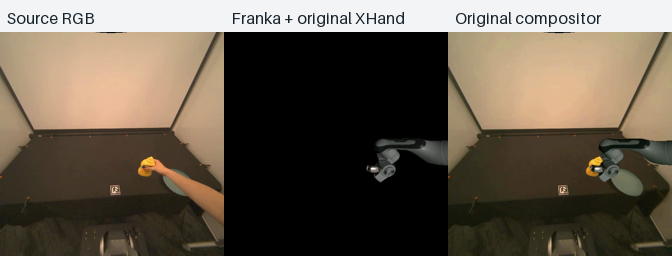
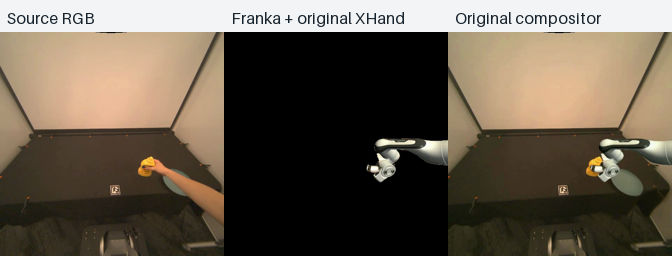
Preserve original scene lighting when replacing the visual robot

Changed region(s): [[0.875, 0.5312, 1.0, 0.7188], [0.5312, 0.5312, 0.6875, 0.7188]]

diff --git a/egoengine/robot_visual.py b/egoengine/robot_visual.py
@@ -65,7 +65,7 @@ def base_pose(config, retarget):
     return desk @ relative
 
 
-def register_robot(config, placement):
+def register_robot(config, placement, scene_lights=None):
     from robosuite.robots import register_robot_class
 
     parent = getattr(importlib.import_module(config["robot_module"]), config["robot_class"])
@@ -74,6 +74,12 @@ def register_robot(config, placement):
         def __init__(self, idn=0):
             super().__init__(idn=idn)
             self.set_base_ori(Rotation.from_matrix(placement[:3, :3]).as_euler("xyz"))
+            if scene_lights is not None:
+                # World lights belong to the scene, independent of the replacement arm.
+                for light in self.worldbody.findall("light"):
+                    self.worldbody.remove(light)
+                for light in scene_lights:
+                    self.worldbody.append(deepcopy(light))
 
         @property
         def default_base(self):
@@ -95,11 +101,31 @@ def register_robot(config, placement):
     return VisualRobot
 
 
-def source_wrist_poses(case, original, config):
+def lighting_state(model):
+    """Record compiled scene lights independently of robot geometry and placement."""
+    return {
+        "headlight": {
+            key: np.asarray(getattr(model.vis.headlight, key)).tolist()
+            for key in ("active", "ambient", "diffuse", "specular")
+        },
+        "world_lights": [
+            {
+                key: np.asarray(getattr(model, "light_" + key)[index]).tolist()
+                for key in ("pos", "dir", "ambient", "diffuse", "specular", "castshadow")
+            }
+            for index in range(model.nlight)
+            if model.light_bodyid[index] == 0
+        ],
+    }
+
+
+def source_visual_reference(case, original, config):
     args = SimpleNamespace(data_file=str(case.visual / "retarget.json"), cam_name="cameraview")
     env = original.make_tracking_env(args, use_cam_obs=False)()
     poses = []
     try:
+        scene_lights = deepcopy(env.env.robots[0].robot_model.worldbody.findall("light"))
+        lighting = lighting_state(env.env.sim.model._model)
         for frame in case.retarget_frames():
             env._set_full_config(frame["robot_cfg"])
             pose = np.eye(4)
@@ -108,7 +134,7 @@ def source_wrist_poses(case, original, config):
             poses.append(pose)
     finally:
         env.close()
-    return np.asarray(poses)
+    return np.asarray(poses), scene_lights, lighting
 
 
 def map_arm(config, robot_class, placement, targets, frames, hand_joints):
@@ -293,8 +319,8 @@ def worker(case, config_path, output, width, height):
     source_path = case.visual / "retarget.json"
     retarget = json.loads(source_path.read_text())
     placement = base_pose(config, retarget)
-    targets = source_wrist_poses(case, original, config)
-    robot_class = register_robot(config, placement)
+    targets, scene_lights, source_lighting = source_visual_reference(case, original, config)
+    robot_class = register_robot(config, placement, scene_lights)
     commands, actual = map_arm(
         config, robot_class, placement, targets, case.retarget_frames(), original.RIGHT_XHAND_JOINTS
     )
@@ -338,6 +364,9 @@ def worker(case, config_path, output, width, height):
     args = SimpleNamespace(data_file=str(data_file), cam_name="cameraview")
     env = make_environment(original, args, config, width, height)
     try:
+        lighting = lighting_state(env.env.sim.model._model)
+        if lighting != source_lighting:
+            raise ValueError("Replacement robot changed the original scene lighting")
         pixels, replayed = replay_layers(
             env,
             original,
@@ -370,6 +399,9 @@ def worker(case, config_path, output, width, height):
         action_sha256=None,
         commands_file="robot_commands.npz",
         xhand_commands="unchanged from original retarget",
+        lighting_source="original_retarget_environment",
+        scene_lights=[dict(light.attrib) for light in scene_lights],
+        lighting=lighting,
         base_to_world=placement.tolist(),
         render_collision_mesh=collision_visible,
         frames_with_visible_robot=sum(value > 0 for value in pixels),

diff --git a/scripts/validate_robot_visual.py b/scripts/validate_robot_visual.py
@@ -1,10 +1,12 @@
 """Check actual visual-robot outputs against the unchanged prepared demonstration."""
 
 import argparse
+from datetime import datetime, timezone
 import hashlib
 import json
 from pathlib import Path
 import sys
+from types import SimpleNamespace
 import xml.etree.ElementTree as ET
 
 import h5py
@@ -12,7 +14,7 @@ import mujoco
 import numpy as np
 
 from egoengine.data import PROJECT_ROOT, get_case
-from egoengine.robot_visual import base_pose, load_config, register_robot
+from egoengine.robot_visual import base_pose, lighting_state, load_config, register_robot
 from egoengine.video import video_info
 
 
@@ -43,6 +45,20 @@ def check_materials(config, placement):
     return checked
 
 
+def reference_lighting(case):
+    sys.path.insert(0, str(PROJECT_ROOT / "visual"))
+    from rl_tracking_dev.replay_trajectory_seg_aria import make_tracking_env
+
+    args = SimpleNamespace(data_file=str(case.visual / "retarget.json"), cam_name="cameraview")
+    env = make_tracking_env(args, use_cam_obs=False)()
+    try:
+        return lighting_state(env.env.sim.model._model), [
+            dict(light.attrib) for light in env.env.robots[0].robot_model.worldbody.findall("light")
+        ]
+    finally:
+        env.close()
+
+
 def main():
     parser = argparse.ArgumentParser(description=__doc__)
     parser.add_argument("--root", type=Path, default=PROJECT_ROOT / "outputs/franka_xhand")
@@ -55,6 +71,7 @@ def main():
     )
     args = parser.parse_args()
     config = load_config(args.robot_config)
+    original_lighting, original_lights = reference_lighting(get_case(args.cases[0]))
     rows = []
     for name in args.cases:
         case = get_case(name)
@@ -64,6 +81,9 @@ def main():
         assert visual_metadata["renderer"] == "configured_robot"
         assert visual_metadata["robot_name"] == config["name"]
         assert visual_metadata["robot_config_sha256"] == metadata["robot_config_sha256"]
+        assert metadata["lighting_source"] == "original_retarget_environment"
+        assert metadata["lighting"] == original_lighting
+        assert metadata["scene_lights"] == original_lights
         source_path = case.visual / "retarget.json"
         retarget = json.loads(source_path.read_text())
         adapted = json.loads(
@@ -116,6 +136,7 @@ def main():
                 camera_and_object_tracks_unchanged=True,
                 eef_actions_unchanged=True,
                 rendered_fk_matches_mapping=True,
+                lighting_matches_original_scene=True,
                 collision_geometry_visible=False,
                 visible_robot_frames=metadata["frames_with_visible_robot"],
                 max_wrist_position_error_m=metadata["max_wrist_position_error_m"],
@@ -127,8 +148,25 @@ def main():
         scope="Visual arm replacement and paired reference-EEF export; no new RL or hardware claim",
         robot=config["name"],
         materials_verified=materials,
+        restored_scene_lights=original_lights,
+        compiled_lighting=original_lighting,
         cases=rows,
         robot_config_sha256=hashlib.sha256(args.robot_config.read_bytes()).hexdigest(),
+        source_sha256={
+            name: hashlib.sha256((PROJECT_ROOT / name).read_bytes()).hexdigest()
+            for name in (
+                "egoengine/robot_visual.py",
+                "egoengine/visual.py",
+                "egoengine/export.py",
+                "egoengine/cli.py",
+                "examples/robots/franka_xhand.json",
+                "scripts/reproduce_franka_visual.sh",
+                "scripts/validate_robot_visual.py",
+                "scripts/build_robot_visual_media.py",
+                "tests/test_robot_config.py",
+            )
+        },
+        validated_at_utc=datetime.now(timezone.utc).isoformat(),
     )
     args.output.parent.mkdir(parents=True, exist_ok=True)
     args.output.write_text(json.dumps(result, indent=2) + "\n")

diff --git a/tests/test_robot_config.py b/tests/test_robot_config.py
@@ -1,4 +1,5 @@
 import json
+import importlib.util
 from pathlib import Path
 import tempfile
 import unittest
@@ -6,10 +7,38 @@ import unittest
 import numpy as np
 
 from egoengine.data import PROJECT_ROOT
-from egoengine.robot_visual import base_pose, load_config
+from egoengine.robot_visual import base_pose, lighting_state, load_config, register_robot
 
 
 class RobotConfigTest(unittest.TestCase):
+    @unittest.skipUnless(
+        importlib.util.find_spec("gymnasium") and importlib.util.find_spec("numba"),
+        "Install requirements/visual-tested.txt for original visual integration",
+    )
+    def test_arm_replacement_preserves_world_lights_with_a_rotated_base(self):
+        import sys
+
+        import mujoco
+
+        sys.path.insert(0, str(PROJECT_ROOT / "visual"))
+        from robosuite.models.robots.manipulators.rby1_robot import RBY1ArmsOnlyAria
+
+        source = RBY1ArmsOnlyAria(idn=0)
+        lights = source.worldbody.findall("light")
+        self.assertTrue(lights)
+        source_model = mujoco.MjModel.from_xml_string(source.get_xml())
+        config = load_config(PROJECT_ROOT / "examples/robots/franka_xhand.json")
+        config["base_quat_wxyz"] = [0.5, 0.5, 0.5, 0.5]
+        placement = base_pose(config, {"init_state": {"desk": np.eye(4).tolist()}})
+        robot_class = register_robot(config, placement, lights)
+        for _ in range(2):
+            robot = robot_class(idn=0)
+            robot.set_base_xpos(placement[:3, 3])
+            replacement = mujoco.MjModel.from_xml_string(robot.get_xml())
+            self.assertEqual(lighting_state(source_model), lighting_state(replacement))
+            self.assertEqual(len(robot.worldbody.findall("light")), len(lights))
+            self.assertIsNot(robot.worldbody.find("light"), lights[0])
+
     def test_base_uses_the_original_shifted_desk_frame(self):
         config = load_config(PROJECT_ROOT / "examples/robots/franka_xhand.json")
         desk = np.eye(4)

diff --git a/docs/USE_MY_ROBOT.md b/docs/USE_MY_ROBOT.md
@@ -59,6 +59,13 @@ Missing referenced meshes are restored from the robosuite 1.5.1 distribution;
 their source and hashes are recorded in `docs/upstream/FRANKA_VISUAL_ASSETS.json`.
 Group-0 collision geometry is excluded from rendering.
 
+Scene lighting is inherited from the original replay independently of the arm.
+For Aria, this includes the warm overhead light defined in the RB-Y1 worldbody.
+The replacement keeps that light in world coordinates, along with the original
+headlight settings. Before rendering, the adapter verifies that the compiled
+scene lights match the original environment. Mesh colors and material properties
+remain those of the authored Panda and XHand assets.
+
 ## Rendered examples
 
 The panels show source RGB, the newly rendered Franka + original XHand foreground,
@@ -115,7 +122,8 @@ outputs/franka_xhand/mustard_1/
 `robot_commands.npz` contains seven Franka arm commands, twelve unchanged XHand
 commands, target/actual wrist poses and per-frame wrist errors. Inspect those
 errors and the rendered mask when calibrating a new robot. `render.json` records
-the fixed base pose, source/configuration hashes and visibility statistics.
+the fixed base pose, source/configuration hashes, compiled scene lighting and
+visibility statistics.
 
 The HDF5 `actions` retain EEF + XHand semantics. The optional
 `obs/robot_joint_commands` stores the nineteen visual replay joint values, with
@@ -127,7 +135,8 @@ The original RL recipe, mode switching and metric code are unchanged by this
 adapter.
 
 After generating all three cases, verify the recorded hand commands, camera and
-object tracks, rendered wrist poses, authored materials and exported action labels:
+object tracks, rendered wrist poses, scene lighting, authored materials and
+exported action labels:
 
 ```bash
 python scripts/validate_robot_visual.py
